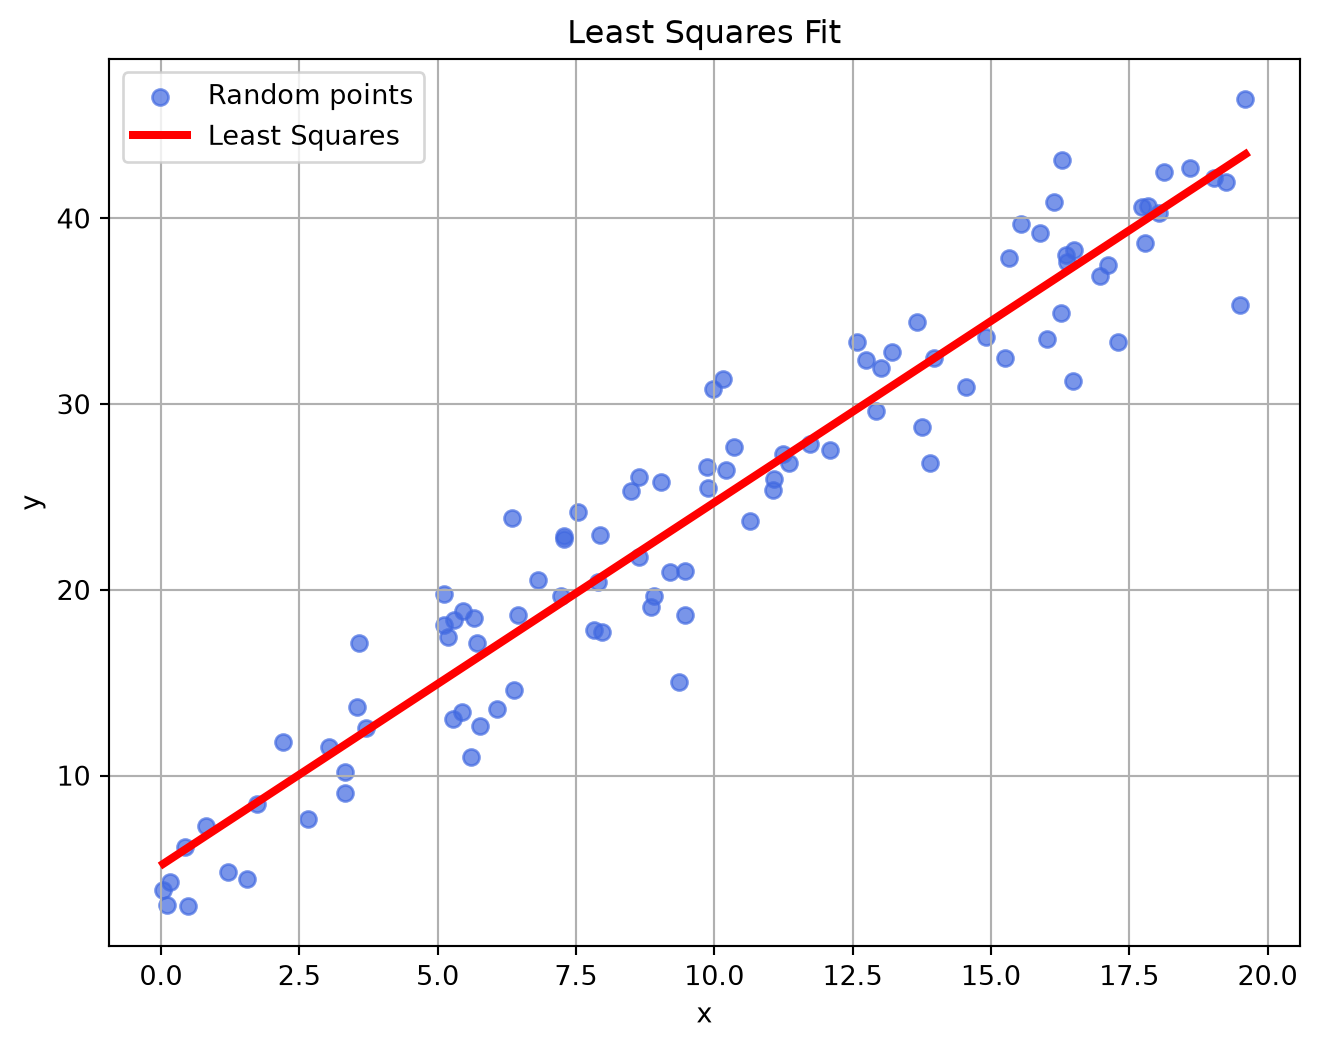
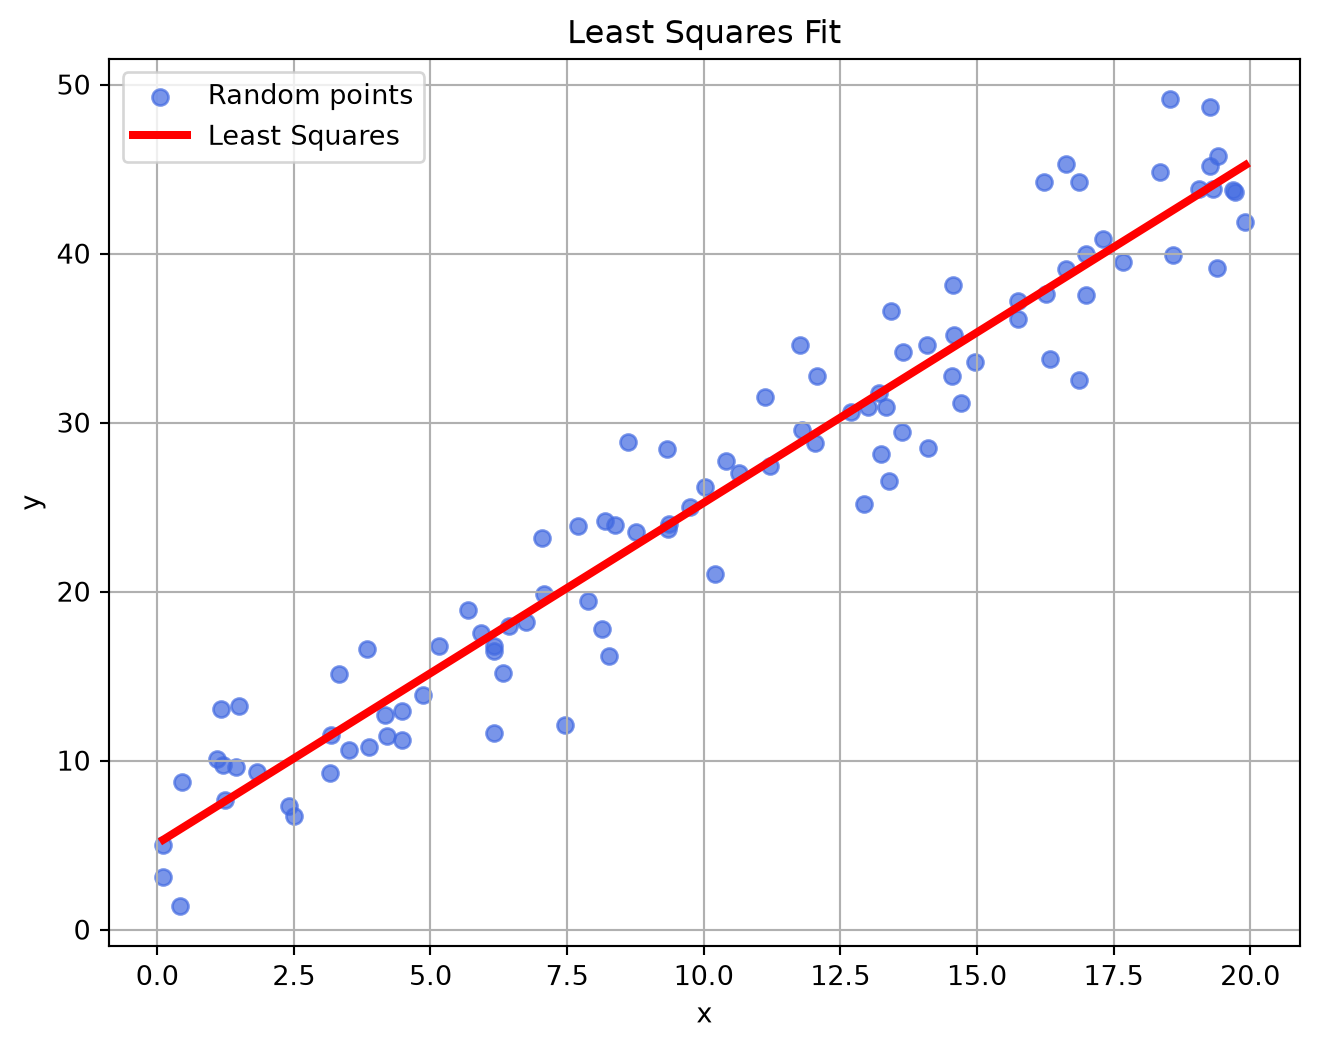
newwww

diff --git a/_site/note/multivariable-calculus/3.html b/_site/note/multivariable-calculus/3.html
@@ -24,6 +24,41 @@ ul.task-list li input[type="checkbox"] {
   margin: 0 0.8em 0.2em -1em; /* quarto-specific, see https://github.com/quarto-dev/quarto-cli/issues/4556 */ 
   vertical-align: middle;
 }
+/* CSS for syntax highlighting */
+html { -webkit-text-size-adjust: 100%; }
+pre > code.sourceCode { white-space: pre; position: relative; }
+pre > code.sourceCode > span { display: inline-block; line-height: 1.25; }
+pre > code.sourceCode > span:empty { height: 1.2em; }
+.sourceCode { overflow: visible; }
+code.sourceCode > span { color: inherit; text-decoration: inherit; }
+div.sourceCode { margin: 1em 0; }
+pre.sourceCode { margin: 0; }
+@media screen {
+div.sourceCode { overflow: auto; }
+}
+@media print {
+pre > code.sourceCode { white-space: pre-wrap; }
+pre > code.sourceCode > span { text-indent: -5em; padding-left: 5em; }
+}
+pre.numberSource code
+  { counter-reset: source-line 0; }
+pre.numberSource code > span
+  { position: relative; left: -4em; counter-increment: source-line; }
+pre.numberSource code > span > a:first-child::before
+  { content: counter(source-line);
+    position: relative; left: -1em; text-align: right; vertical-align: baseline;
+    border: none; display: inline-block;
+    -webkit-touch-callout: none; -webkit-user-select: none;
+    -khtml-user-select: none; -moz-user-select: none;
+    -ms-user-select: none; user-select: none;
+    padding: 0 4px; width: 4em;
+  }
+pre.numberSource { margin-left: 3em;  padding-left: 4px; }
+div.sourceCode
+  {   }
+@media screen {
+pre > code.sourceCode > span > a:first-child::before { text-decoration: underline; }
+}
 </style>
 
 
@@ -515,11 +550,137 @@ window.Quarto = {
 =\int_{y_{min}}^{y_{max}} \int_{x_{min(y)}}^{x_{max(y)}}S(x, y)\mathbf dx \mathbf dy
 </span></p>
 <p>Tức là dù có tính cái nào trước, đáp án vẫn là như nhau. Một số trường hợp việc đổi có giúp việc tính tích phân dễ hơn hoặc khó hơn.</p>
+<p><strong>Ví dụ:</strong> <span class="math display">
+\int_0^1 \int_x^{\sqrt x} \frac {e^y}{y} \mathbf dy \mathbf dx
+</span></p>
+<div id="1c7b34c0" class="cell" data-execution_count="1">
+<details class="code-fold">
+<summary>Code</summary>
+<div class="code-copy-outer-scaffold"><div class="sourceCode cell-code" id="cb1"><pre class="sourceCode python code-with-copy"><code class="sourceCode python"><span id="cb1-1"><a href="#cb1-1" aria-hidden="true" tabindex="-1"></a><span class="im">import</span> numpy <span class="im">as</span> np</span>
+<span id="cb1-2"><a href="#cb1-2" aria-hidden="true" tabindex="-1"></a><span class="im">import</span> matplotlib.pyplot <span class="im">as</span> plt</span>
+<span id="cb1-3"><a href="#cb1-3" aria-hidden="true" tabindex="-1"></a></span>
+<span id="cb1-4"><a href="#cb1-4" aria-hidden="true" tabindex="-1"></a><span class="co"># Miền x</span></span>
+<span id="cb1-5"><a href="#cb1-5" aria-hidden="true" tabindex="-1"></a>x <span class="op">=</span> np.linspace(<span class="op">-</span><span class="fl">0.5</span>, <span class="fl">1.5</span>, <span class="dv">500</span>)</span>
+<span id="cb1-6"><a href="#cb1-6" aria-hidden="true" tabindex="-1"></a></span>
+<span id="cb1-7"><a href="#cb1-7" aria-hidden="true" tabindex="-1"></a><span class="co"># Hàm y = x</span></span>
+<span id="cb1-8"><a href="#cb1-8" aria-hidden="true" tabindex="-1"></a>y1 <span class="op">=</span> x</span>
+<span id="cb1-9"><a href="#cb1-9" aria-hidden="true" tabindex="-1"></a></span>
+<span id="cb1-10"><a href="#cb1-10" aria-hidden="true" tabindex="-1"></a>y2 <span class="op">=</span> np.where(x <span class="op">&gt;=</span> <span class="dv">0</span>, np.sqrt(x), np.nan)</span>
+<span id="cb1-11"><a href="#cb1-11" aria-hidden="true" tabindex="-1"></a></span>
+<span id="cb1-12"><a href="#cb1-12" aria-hidden="true" tabindex="-1"></a>plt.figure(figsize<span class="op">=</span>(<span class="dv">6</span>, <span class="dv">6</span>))</span>
+<span id="cb1-13"><a href="#cb1-13" aria-hidden="true" tabindex="-1"></a></span>
+<span id="cb1-14"><a href="#cb1-14" aria-hidden="true" tabindex="-1"></a><span class="co"># Vẽ hai đường</span></span>
+<span id="cb1-15"><a href="#cb1-15" aria-hidden="true" tabindex="-1"></a>plt.plot(x, y1, label<span class="op">=</span><span class="vs">r"</span><span class="dv">$</span><span class="vs">y=x</span><span class="dv">$</span><span class="vs">"</span>, linewidth<span class="op">=</span><span class="dv">2</span>)</span>
+<span id="cb1-16"><a href="#cb1-16" aria-hidden="true" tabindex="-1"></a>plt.plot(x, y2, label<span class="op">=</span><span class="vs">r"</span><span class="dv">$</span><span class="vs">y=</span><span class="dv">\s</span><span class="vs">qrt{x}</span><span class="dv">$</span><span class="vs">"</span>, linewidth<span class="op">=</span><span class="dv">2</span>)</span>
+<span id="cb1-17"><a href="#cb1-17" aria-hidden="true" tabindex="-1"></a></span>
+<span id="cb1-18"><a href="#cb1-18" aria-hidden="true" tabindex="-1"></a>mask <span class="op">=</span> (x <span class="op">&gt;=</span> <span class="dv">0</span>) <span class="op">&amp;</span> (x <span class="op">&lt;=</span> <span class="dv">1</span>)</span>
+<span id="cb1-19"><a href="#cb1-19" aria-hidden="true" tabindex="-1"></a>plt.fill_between(</span>
+<span id="cb1-20"><a href="#cb1-20" aria-hidden="true" tabindex="-1"></a>    x[mask],</span>
+<span id="cb1-21"><a href="#cb1-21" aria-hidden="true" tabindex="-1"></a>    y1[mask],</span>
+<span id="cb1-22"><a href="#cb1-22" aria-hidden="true" tabindex="-1"></a>    y2[mask],</span>
+<span id="cb1-23"><a href="#cb1-23" aria-hidden="true" tabindex="-1"></a>    color<span class="op">=</span><span class="st">"black"</span>,</span>
+<span id="cb1-24"><a href="#cb1-24" aria-hidden="true" tabindex="-1"></a>    alpha<span class="op">=</span><span class="fl">0.3</span></span>
+<span id="cb1-25"><a href="#cb1-25" aria-hidden="true" tabindex="-1"></a>)</span>
+<span id="cb1-26"><a href="#cb1-26" aria-hidden="true" tabindex="-1"></a></span>
+<span id="cb1-27"><a href="#cb1-27" aria-hidden="true" tabindex="-1"></a><span class="co"># Trục tọa độ</span></span>
+<span id="cb1-28"><a href="#cb1-28" aria-hidden="true" tabindex="-1"></a>plt.axhline(<span class="dv">0</span>, color<span class="op">=</span><span class="st">"black"</span>, linewidth<span class="op">=</span><span class="dv">1</span>)</span>
+<span id="cb1-29"><a href="#cb1-29" aria-hidden="true" tabindex="-1"></a>plt.axvline(<span class="dv">0</span>, color<span class="op">=</span><span class="st">"black"</span>, linewidth<span class="op">=</span><span class="dv">1</span>)</span>
+<span id="cb1-30"><a href="#cb1-30" aria-hidden="true" tabindex="-1"></a></span>
+<span id="cb1-31"><a href="#cb1-31" aria-hidden="true" tabindex="-1"></a>plt.xlim(<span class="op">-</span><span class="fl">0.5</span>, <span class="fl">1.5</span>)</span>
+<span id="cb1-32"><a href="#cb1-32" aria-hidden="true" tabindex="-1"></a>plt.ylim(<span class="op">-</span><span class="fl">0.5</span>, <span class="fl">1.5</span>)</span>
+<span id="cb1-33"><a href="#cb1-33" aria-hidden="true" tabindex="-1"></a>plt.gca().set_aspect(<span class="st">"equal"</span>, adjustable<span class="op">=</span><span class="st">"box"</span>)</span>
+<span id="cb1-34"><a href="#cb1-34" aria-hidden="true" tabindex="-1"></a></span>
+<span id="cb1-35"><a href="#cb1-35" aria-hidden="true" tabindex="-1"></a>plt.xlabel(<span class="st">"$x$"</span>)</span>
+<span id="cb1-36"><a href="#cb1-36" aria-hidden="true" tabindex="-1"></a>plt.ylabel(<span class="st">"$y$"</span>)</span>
+<span id="cb1-37"><a href="#cb1-37" aria-hidden="true" tabindex="-1"></a>plt.legend()</span>
+<span id="cb1-38"><a href="#cb1-38" aria-hidden="true" tabindex="-1"></a>plt.grid(alpha<span class="op">=</span><span class="fl">0.3</span>)</span>
+<span id="cb1-39"><a href="#cb1-39" aria-hidden="true" tabindex="-1"></a></span>
+<span id="cb1-40"><a href="#cb1-40" aria-hidden="true" tabindex="-1"></a>plt.show()</span></code></pre></div><button title="Copy to Clipboard" class="code-copy-button"><i class="bi"></i></button></div>
+</details>
+<div class="cell-output cell-output-display">
+<div>
+<figure class="figure">
+<p><img src="3_files/figure-html/cell-2-output-1.png" width="547" height="509" class="figure-img"></p>
+</figure>
+</div>
+</div>
+</div>
+<div class="callout callout-style-default callout-tip callout-titled">
+<div class="callout-header d-flex align-content-center collapsed" data-bs-toggle="collapse" data-bs-target=".callout-1-contents" aria-controls="callout-1" aria-expanded="false" aria-label="Toggle callout">
+<div class="callout-icon-container">
+<i class="callout-icon"></i>
+</div>
+<div class="callout-title-container flex-fill">
+<span class="screen-reader-only">Tip</span>Cách tư duy vẽ hình.
+</div>
+<div class="callout-btn-toggle d-inline-block border-0 py-1 ps-1 pe-0 float-end"><i class="callout-toggle"></i></div>
+</div>
+<div id="callout-1" class="callout-1-contents callout-collapse collapse">
+<div class="callout-body-container callout-body">
+<p><span class="math display">
+\int_a^b \int_{c(x)}^{d(x)} S(x, y) \mathbf dy \mathbf dx
+</span></p>
+<p>Nó sẽ là 2 đường thẳng là tập hợp các điểm <span class="math inline">c(x) \left\{ x \in \mathbb r | a \leq x \leq b \right\}</span> <span class="math inline">d(x) \left\{ x \in \mathbb r | a \leq x \leq b \right\}</span>.</p>
+</div>
+</div>
+</div>
+<ol type="1">
+<li>Giữ nguyên.</li>
+</ol>
+<p>Có thể thấy rằng việc tính <strong>inner integral</strong> <span class="math inline">\int_x^{\sqrt x}\frac {e^y} y \mathbf dy</span> rất khó.</p>
+<ol start="2" type="1">
+<li>Đổi thứ tự.</li>
+</ol>
+<div class="callout callout-style-default callout-warning callout-titled">
+<div class="callout-header d-flex align-content-center">
+<div class="callout-icon-container">
+<i class="callout-icon"></i>
+</div>
+<div class="callout-title-container flex-fill">
+<span class="screen-reader-only">Warning</span>Chú ý!
+</div>
+</div>
+<div class="callout-body-container callout-body">
+<p>Nên nhớ rằng khi việc đổi thứ tự thì 2 biên cũng sẽ thay đổi!</p>
+</div>
+</div>
+<p>Lúc này hàm trở thành:</p>
+<p><span class="math display">
+\int_0^1 \int_{y^2}^y \frac {e^y} y \mathbf dx \mathbf dy
+</span></p>
+<p><strong>Innner</strong> <span class="math display">
+\int_{y^2}^y \frac {e^y} y \mathbf dx = \left[ \frac {e^y} y x \right]_{y^2}^y = e^y - ye^y
+</span></p>
+<p><strong>Outer</strong></p>
+<p><span class="math display">
+\int_0^1 \left(e^y - ye^y \right) \mathbf dy = \left[ -ye^y + 2e^y \right]_0^1 = e - 2
+</span></p>
 <hr>
 </section>
 </section>
 <section id="integration-in-polar-coordinates" class="level1">
 <h1>Integration in polar coordinates</h1>
+<p>Không chỉ việc dổi biến giúp tính tích phân dễ dàng hơn. Chúng ta cũng có một phương pháp khác là sử dụng tọa độ cực.</p>
+<p>Cách chuyển hàm trên tọa độ Đề các sang tọa độ cực, đó là chuyển:</p>
+<ul>
+<li><span class="math inline">x = r\cos\theta</span></li>
+<li><span class="math inline">y = r\sin\theta</span></li>
+</ul>
+<p>Vậy nên: <span class="math inline">\int\int S \mathbf dA = \int\int S_\theta r\mathbf dr \mathbf d\theta</span>. (<span class="math inline">\mathbf dA = \mathbf dx \mathbf dy = r\mathbf dr \mathbf d\theta \neq \mathbf dr \mathbf d\theta</span>)</p>
+<p><strong>Ví dụ</strong></p>
+<p>Tính: <span class="math display">
+\int \int_{x^2+y^2 \leq 1, x \geq0, y \geq 0}(1 - x^2 - y^2)\mathbf dx \mathbf dy
+\Rightarrow
+\int_0^{\pi/2}\int_0^1 (1 - r^2)r \mathbf dr \mathbf d\theta
+</span></p>
+<p><strong>Inner</strong> <span class="math display">
+\int_0^1 (r - r^3) \mathbf dr \mathbf =
+\left[ \frac 1 2 r^2 - \frac 1 4 r^4 \right]_0^1 =
+\frac 1 4
+</span></p>
+<p><strong>Outer</strong> <span class="math display">
+\int_0^{\pi/2} \frac 1 4 \mathbf d\theta = \frac \pi 8
+</span></p>
 <hr>
 </section>
 <section id="change-of-variables" class="level1">

diff --git a/_site/note/multivariable-calculus/2.html b/_site/note/multivariable-calculus/2.html
@@ -569,7 +569,7 @@ window.Quarto = {
 </div>
 <p>Như ta đã tiếp xúc với hàm đơn biến từ trước, ví dụ như <span class="math inline">f(x) = x^2</span> hay <span class="math inline">f(x) = -x + 2</span>. Thì trong không gian 3 chiều, hay tổng quát hơn là n chiều, chúng ta cũng có thể biểu diễn nó bằng <span class="math inline">n - 1</span> biến.</p>
 <p>Ví dụ: Hàm <span class="math inline">f(x, y) = x^2 + y^2</span></p>
-<div id="a3c88902" class="cell" data-execution_count="1">
+<div id="1d21a851" class="cell" data-execution_count="1">
 <details class="code-fold">
 <summary>Code</summary>
 <div class="code-copy-outer-scaffold"><div class="sourceCode cell-code" id="cb1"><pre class="sourceCode python code-with-copy"><code class="sourceCode python"><span id="cb1-1"><a href="#cb1-1" aria-hidden="true" tabindex="-1"></a><span class="im">import</span> numpy <span class="im">as</span> np</span>
@@ -644,7 +644,7 @@ window.Quarto = {
 f_x = \frac {\partial f}{\partial x} = \lim _{\Delta x \rightarrow 0} \frac{f(x_0 + \Delta x, y_0) - f(x_0, y_0)}{\Delta x} \\[10pt]
 f_y = \frac {\partial f}{\partial x} = \lim _{\Delta y \rightarrow 0} \frac{f(x_0, y_0 + \Delta y) - f(x_0, y_0)}{\Delta y}
 </span></p>
-<div id="047f4853" class="cell" data-execution_count="2">
+<div id="ed46bc49" class="cell" data-execution_count="2">
 <div class="cell-output cell-output-display">
 <div>
 <figure class="figure">
@@ -657,7 +657,7 @@ f_y = \frac {\partial f}{\partial x} = \lim _{\Delta y \rightarrow 0} \frac{f(x_
 <h2 class="anchored" data-anchor-id="cách-tính-đạo-hàm-từng-phần">Cách tính đạo hàm từng phần</h2>
 <p>Như đã nói ở trước, ta sẽ coi một biến là hằng số.</p>
 <p>Ví dụ hàm <span class="math inline">f(x, y) = x^2 + x^3y + 2y + 3x</span></p>
-<div id="85d981bd" class="cell" data-execution_count="3">
+<div id="c26db65d" class="cell" data-execution_count="3">
 <details class="code-fold">
 <summary>Code</summary>
 <div class="code-copy-outer-scaffold"><div class="sourceCode cell-code" id="cb2"><pre class="sourceCode python code-with-copy"><code class="sourceCode python"><span id="cb2-1"><a href="#cb2-1" aria-hidden="true" tabindex="-1"></a><span class="im">import</span> numpy <span class="im">as</span> np</span>
@@ -735,7 +735,7 @@ f_y = \frac {\partial f}{\partial x} = \lim _{\Delta y \rightarrow 0} \frac{f(x_
 <p>Tương tự vậy với mặt phẳng 3D, tiếp tuyến của điểm là mặt phẳng 2D tạo bởi 2 đường tiếp tuyến khi đạo hàm theo x và đạo hàm theo y tại điểm đó.</p>
 <p>Ví dụ: <span class="math inline">f(x, y) = x^2 + y^2</span></p>
 <p>Ta xét tại điểm <span class="math inline">(x_0, y_0) = (1, 1)</span>, mặt phẳng tiếp tuyến là mặt phẳng màu cam trong hình.</p>
-<div id="b1fb3896" class="cell" data-execution_count="4">
+<div id="3cb9cb0e" class="cell" data-execution_count="4">
 <details class="code-fold">
 <summary>Code</summary>
 <div class="code-copy-outer-scaffold"><div class="sourceCode cell-code" id="cb3"><pre class="sourceCode python code-with-copy"><code class="sourceCode python"><span id="cb3-1"><a href="#cb3-1" aria-hidden="true" tabindex="-1"></a><span class="im">import</span> numpy <span class="im">as</span> np</span>
@@ -822,7 +822,7 @@ f_y = \frac {\partial f}{\partial x} = \lim _{\Delta y \rightarrow 0} \frac{f(x_
 <p>Nhưng cũng vì thế mà sẽ có 3 trường hợp xảy ra:</p>
 <section id="điểm-cực-tiểu" class="level2">
 <h2 class="anchored" data-anchor-id="điểm-cực-tiểu">Điểm cực tiểu</h2>
-<div id="09f1fd9b" class="cell" data-execution_count="5">
+<div id="29a183a7" class="cell" data-execution_count="5">
 <details class="code-fold">
 <summary>Code</summary>
 <div class="code-copy-outer-scaffold"><div class="sourceCode cell-code" id="cb4"><pre class="sourceCode python code-with-copy"><code class="sourceCode python"><span id="cb4-1"><a href="#cb4-1" aria-hidden="true" tabindex="-1"></a><span class="im">import</span> numpy <span class="im">as</span> np</span>
@@ -892,7 +892,7 @@ f_y = \frac {\partial f}{\partial x} = \lim _{\Delta y \rightarrow 0} \frac{f(x_
 </section>
 <section id="điểm-cực-đại" class="level2">
 <h2 class="anchored" data-anchor-id="điểm-cực-đại">Điểm cực đại</h2>
-<div id="937571d0" class="cell" data-execution_count="6">
+<div id="e5431b62" class="cell" data-execution_count="6">
 <details class="code-fold">
 <summary>Code</summary>
 <div class="code-copy-outer-scaffold"><div class="sourceCode cell-code" id="cb5"><pre class="sourceCode python code-with-copy"><code class="sourceCode python"><span id="cb5-1"><a href="#cb5-1" aria-hidden="true" tabindex="-1"></a><span class="im">import</span> numpy <span class="im">as</span> np</span>
@@ -963,7 +963,7 @@ f_y = \frac {\partial f}{\partial x} = \lim _{\Delta y \rightarrow 0} \frac{f(x_
 <section id="điểm-saddle" class="level2">
 <h2 class="anchored" data-anchor-id="điểm-saddle">Điểm saddle</h2>
 <p>Vừa là cực dại vừa là cực tiểu.</p>
-<div id="c1b81a34" class="cell" data-execution_count="7">
+<div id="34fbc004" class="cell" data-execution_count="7">
 <details class="code-fold">
 <summary>Code</summary>
 <div class="code-copy-outer-scaffold"><div class="sourceCode cell-code" id="cb6"><pre class="sourceCode python code-with-copy"><code class="sourceCode python"><span id="cb6-1"><a href="#cb6-1" aria-hidden="true" tabindex="-1"></a><span class="im">import</span> numpy <span class="im">as</span> np</span>
@@ -1048,7 +1048,7 @@ f_y = \frac {\partial f}{\partial x} = \lim _{\Delta y \rightarrow 0} \frac{f(x_
 <p>Tìm đường/hàm khớp dữ liệu bằng cách tối thiểu hóa tổng bình phương sai số.</p>
 </div>
 </div>
-<div id="8c9ab82b" class="cell" data-execution_count="8">
+<div id="12b0a496" class="cell" data-execution_count="8">
 <details class="code-fold">
 <summary>Code</summary>
 <div class="code-copy-outer-scaffold"><div class="sourceCode cell-code" id="cb7"><pre class="sourceCode python code-with-copy"><code class="sourceCode python"><span id="cb7-1"><a href="#cb7-1" aria-hidden="true" tabindex="-1"></a><span class="im">import</span> numpy <span class="im">as</span> np</span>
@@ -1367,7 +1367,7 @@ f = t^2 e^t + \sin t
 <p><strong>Định nghĩa:</strong> <span class="math inline">\nabla f = &lt;f_x, f_y, f_z&gt;</span> - Là một vector Gradient.</p>
 <p>Khi đó thì vector sẽ vuông góc với mặt phẳng, và có hướng về phía mà có f(x, y, z) cao hơn. (Tức là nếu nó ở đoạn sườn dốc của một ngọn núi, thì nó sẽ nhìn lên phía trên đỉnh thay vì nhìn xuống dưới chân núi).</p>
 <p><strong>Ví dụ:</strong> Sau đây là một hàm bất kỳ, ta vẽ được như sau:</p>
-<div id="5477e0b4" class="cell" data-execution_count="9">
+<div id="14a572fe" class="cell" data-execution_count="9">
 <details class="code-fold">
 <summary>Code</summary>
 <div class="code-copy-outer-scaffold"><div class="sourceCode cell-code" id="cb8"><pre class="sourceCode python code-with-copy"><code class="sourceCode python"><span id="cb8-1"><a href="#cb8-1" aria-hidden="true" tabindex="-1"></a><span class="im">import</span> numpy <span class="im">as</span> np</span>
@@ -1400,7 +1400,7 @@ f = t^2 e^t + \sin t
 </div>
 </div>
 <p>có contour plot là:</p>
-<div id="0a1844d0" class="cell" data-execution_count="10">
+<div id="f1a143d8" class="cell" data-execution_count="10">
 <details class="code-fold">
 <summary>Code</summary>
 <div class="code-copy-outer-scaffold"><div class="sourceCode cell-code" id="cb9"><pre class="sourceCode python code-with-copy"><code class="sourceCode python"><span id="cb9-1"><a href="#cb9-1" aria-hidden="true" tabindex="-1"></a><span class="im">import</span> numpy <span class="im">as</span> np</span>
@@ -1433,7 +1433,7 @@ f = t^2 e^t + \sin t
 </div>
 </div>
 <p>và vector gradient được vẽ màu đỏ như sau:</p>
-<div id="320dbd96" class="cell" data-execution_count="11">
+<div id="29c5729f" class="cell" data-execution_count="11">
 <details class="code-fold">
 <summary>Code</summary>
 <div class="code-copy-outer-scaffold"><div class="sourceCode cell-code" id="cb10"><pre class="sourceCode python code-with-copy"><code class="sourceCode python"><span id="cb10-1"><a href="#cb10-1" aria-hidden="true" tabindex="-1"></a><span class="im">import</span> numpy <span class="im">as</span> np</span>
@@ -1491,7 +1491,7 @@ f_x\frac{\mathbf dz}{\mathbf dt}
 \frac{\mathbf d \vec r}{\mathbf dt} = &lt;\frac{\mathbf dx}{\mathbf dt},\frac{\mathbf dy}{\mathbf dt},\frac{\mathbf dz}{\mathbf dt}&gt;
 </span></p>
 <hr>
-<div id="5156ca31" class="cell" data-execution_count="12">
+<div id="27d9dd57" class="cell" data-execution_count="12">
 <details class="code-fold">
 <summary>Code</summary>
 <div class="code-copy-outer-scaffold"><div class="sourceCode cell-code" id="cb11"><pre class="sourceCode python code-with-copy"><code class="sourceCode python"><span id="cb11-1"><a href="#cb11-1" aria-hidden="true" tabindex="-1"></a><span class="im">import</span> numpy <span class="im">as</span> np</span>